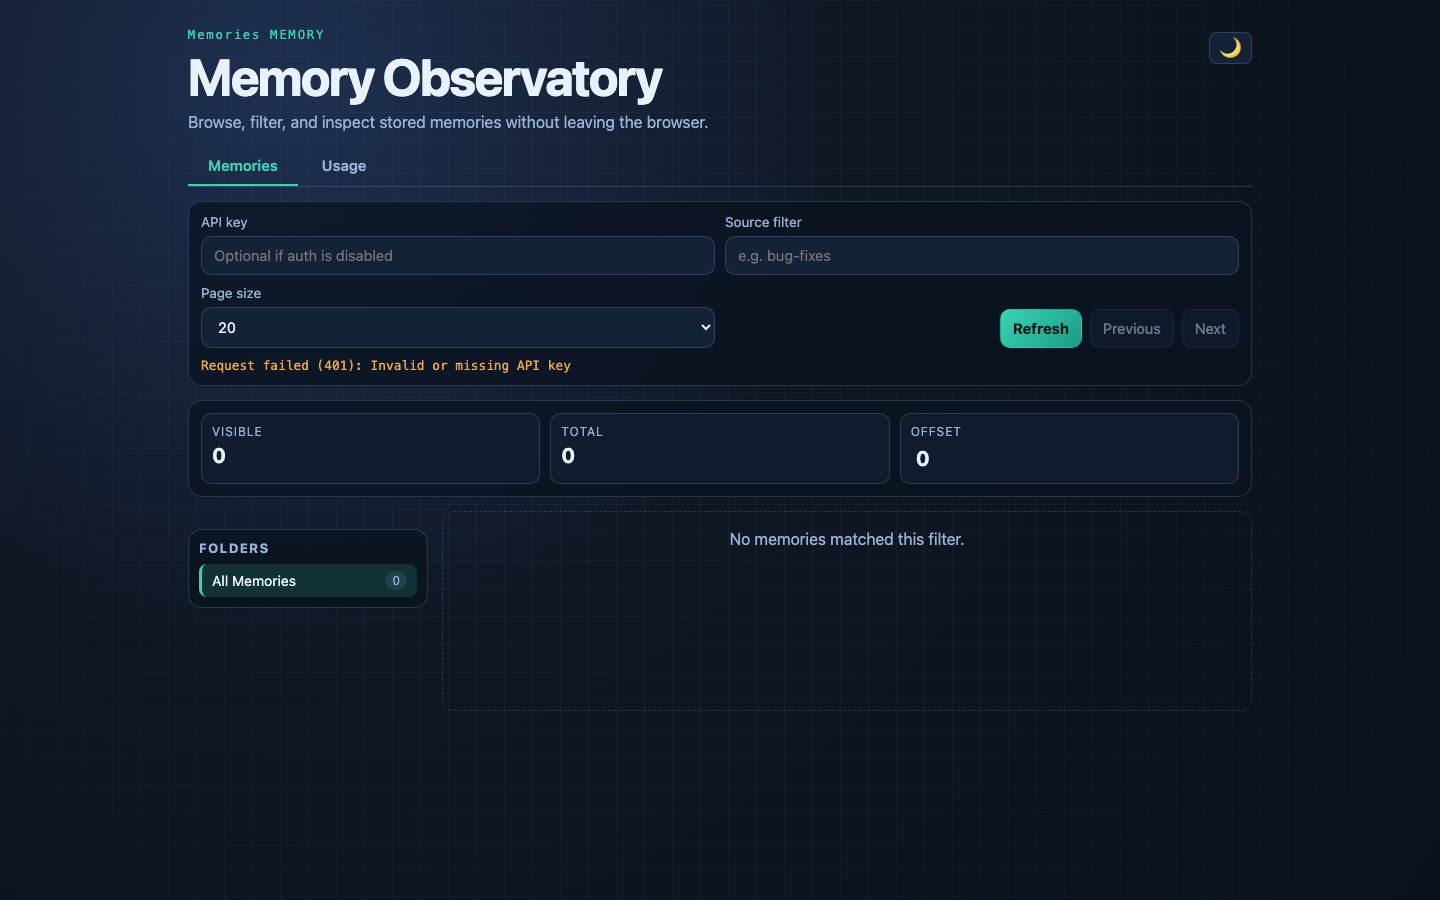
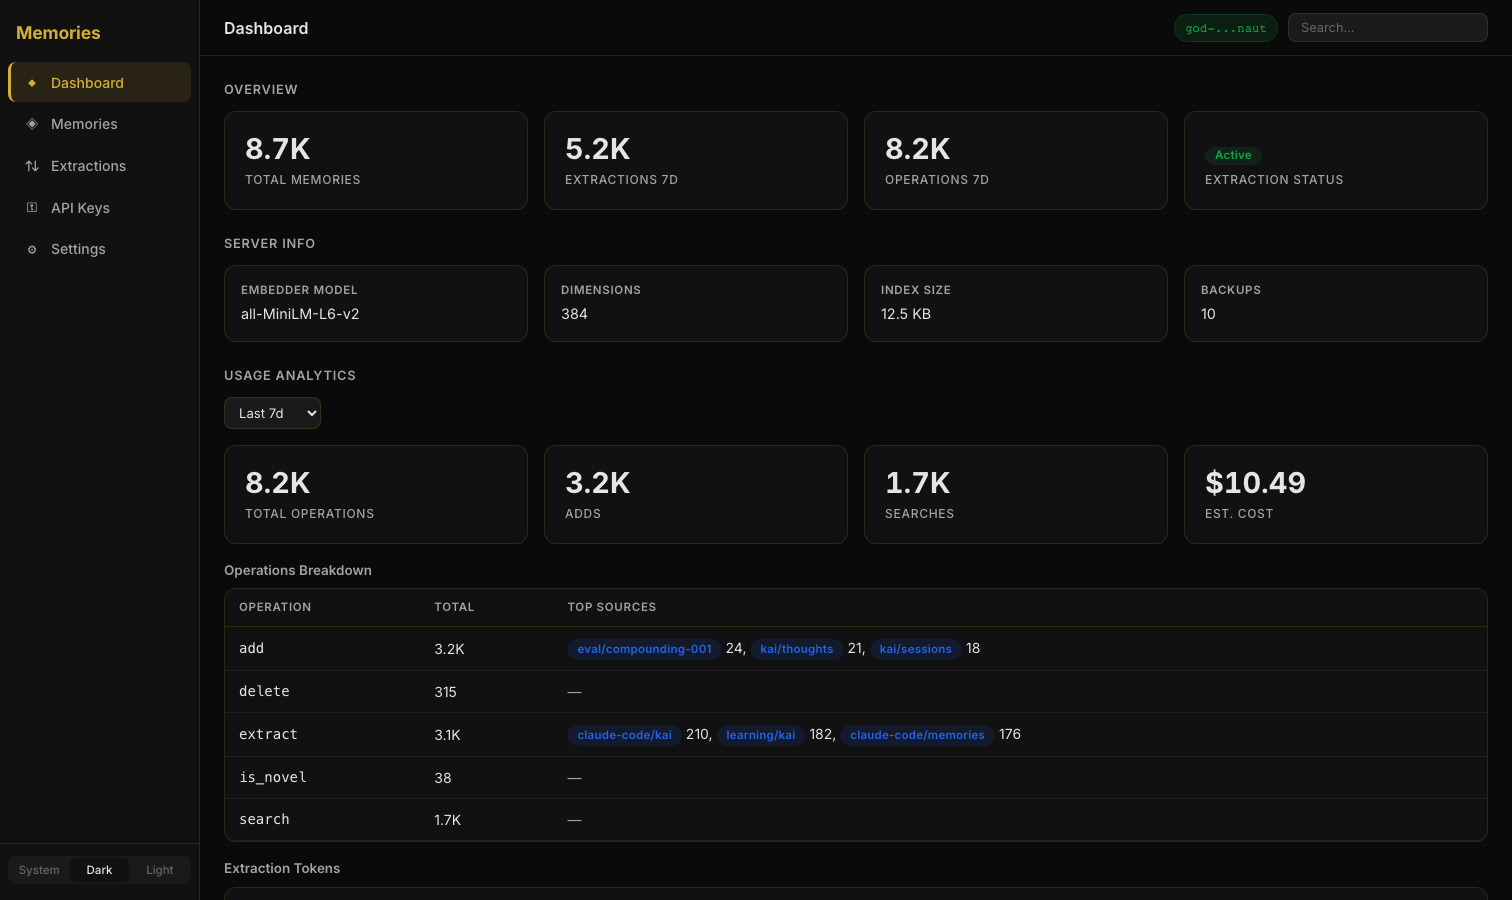
docs: update Memories page for v1.4.0 — Web Dashboard, Memories Skill, memory_extract

diff --git a/src/content/docs/tools/memories/index.md b/src/content/docs/tools/memories/index.md
@@ -1,6 +1,6 @@
 ---
 title: Memories
-description: Local semantic memory for AI assistants with hybrid BM25+vector search
+description: Local semantic memory for AI assistants with hybrid search, disciplined capture, and a built-in dashboard
 ---
 
 > **GitHub:** [divyekant/memories](https://github.com/divyekant/memories)
@@ -9,18 +9,20 @@ description: Local semantic memory for AI assistants with hybrid BM25+vector sea
 
 ## What it does
 
-AI assistants lose all context when a session ends. Memories gives them persistent, searchable memory that survives across sessions, projects, and machines. It runs locally as a Docker service, provides sub-50ms hybrid search combining BM25 keyword matching with vector similarity, and works with any AI client that supports MCP or REST.
+AI assistants lose all context when a session ends. Memories gives them persistent, searchable memory that survives across sessions, projects, and machines. It runs locally as a Docker service, provides sub-50ms hybrid search combining BM25 keyword matching with vector similarity, and works with any AI client that supports MCP or REST. A bundled Memories Skill teaches Claude Code disciplined memory capture — when to store, when to recall, and when to clean up — while the Web Dashboard provides a full management interface for browsing, searching, and monitoring memory usage.
 
 ## Key Features
 
 - **Hybrid search** — BM25 keyword + vector similarity with Reciprocal Rank Fusion, under 50ms
 - **AUDN extraction pipeline** — Automatically classifies facts as Add, Update, Delete, or Noop to keep memory clean over time
+- **Memories Skill** — Bundled Claude Code skill with three responsibilities: Read (proactive recall before questions), Write (hybrid `memory_add` + `memory_extract` for intelligent storage), and Maintain (AUDN-driven lifecycle cleanup). +43% eval improvement over baseline
+- **`memory_extract` tool** — Synchronous MCP tool that analyzes conversations and classifies facts through the AUDN loop before storing, handling adds, updates, and deletions in a single call
+- **Web Dashboard** — Full management UI at `/ui` with sidebar navigation, usage analytics, list+detail and grid views, source filtering, dark/light theme, and responsive mobile layout
 - **Multi-client support** — MCP for Claude Code, Cursor, Codex; REST API for ChatGPT, OpenClaw, and anything else
 - **Automatic memory hooks** — 5-event lifecycle (session start, prompt, response, pre-compact, session end) for hands-free memory management
 - **Novelty detection** — Checks if information is already known before storing, preventing duplicates
 - **Auto-backups** — Snapshots after every write, with optional cron and Google Drive/S3 off-site backup
 - **ONNX Runtime inference** — Same model quality as PyTorch (all-MiniLM-L6-v2) in a 68% smaller Docker image
-- **Web UI** — Built-in memory browser at `/ui` for viewing and managing stored memories
 - **Extraction providers** — Anthropic, OpenAI, ChatGPT Subscription, Ollama, or skip entirely
 
 ## How it fits
@@ -58,3 +60,5 @@ Memories runs as a FastAPI service inside Docker. Clients connect via MCP protoc
 Internally, the engine maintains a vector index (ONNX Runtime embeddings) alongside a BM25 keyword index. Search queries hit both and results are fused using Reciprocal Rank Fusion. All data is persisted to disk as `vector_index.bin` + `metadata.json` with automatic backups after every write.
 
 The optional extraction pipeline uses an LLM (Anthropic, OpenAI, Ollama, or ChatGPT Subscription) to analyze conversation transcripts and classify facts through the AUDN loop before storing them.
+
+The Memories Skill is the Claude Code integration layer. It wraps the MCP tools with a disciplined workflow: proactively searching memories before asking clarifying questions, using `memory_add` for simple novel facts and `memory_extract` for complex multi-fact conversations or lifecycle decisions (updates, deletions, reversals). Source prefixes like `claude-code/{project}` and `learning/{project}` keep memories organized across projects.
